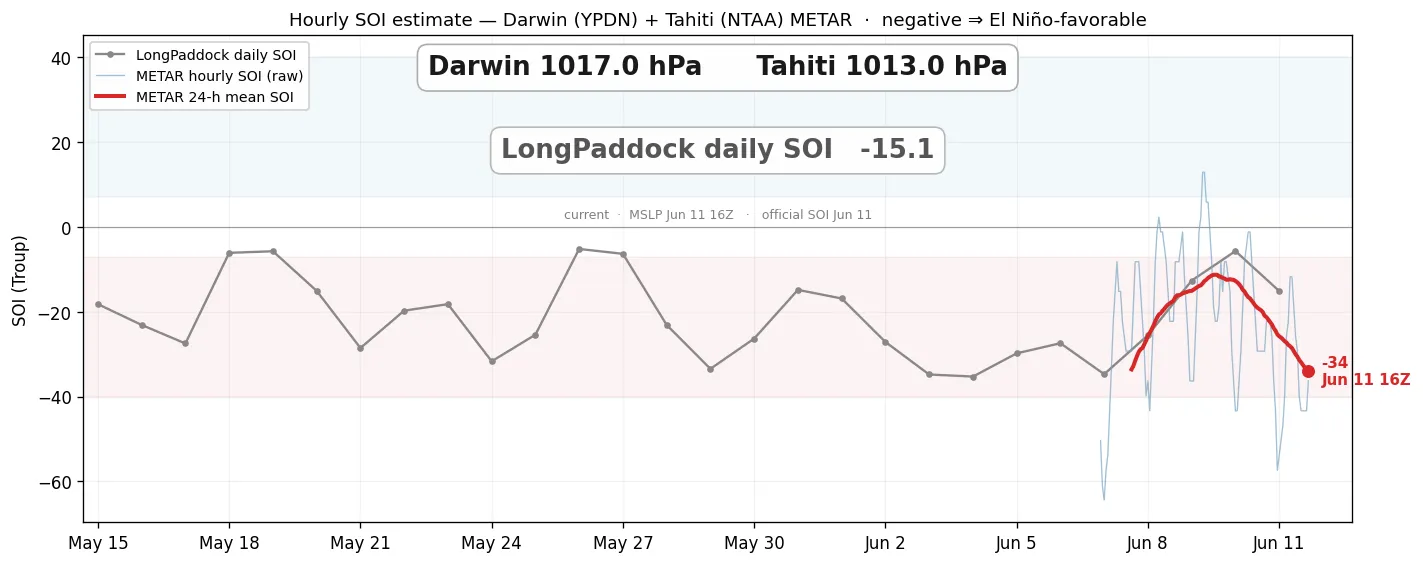
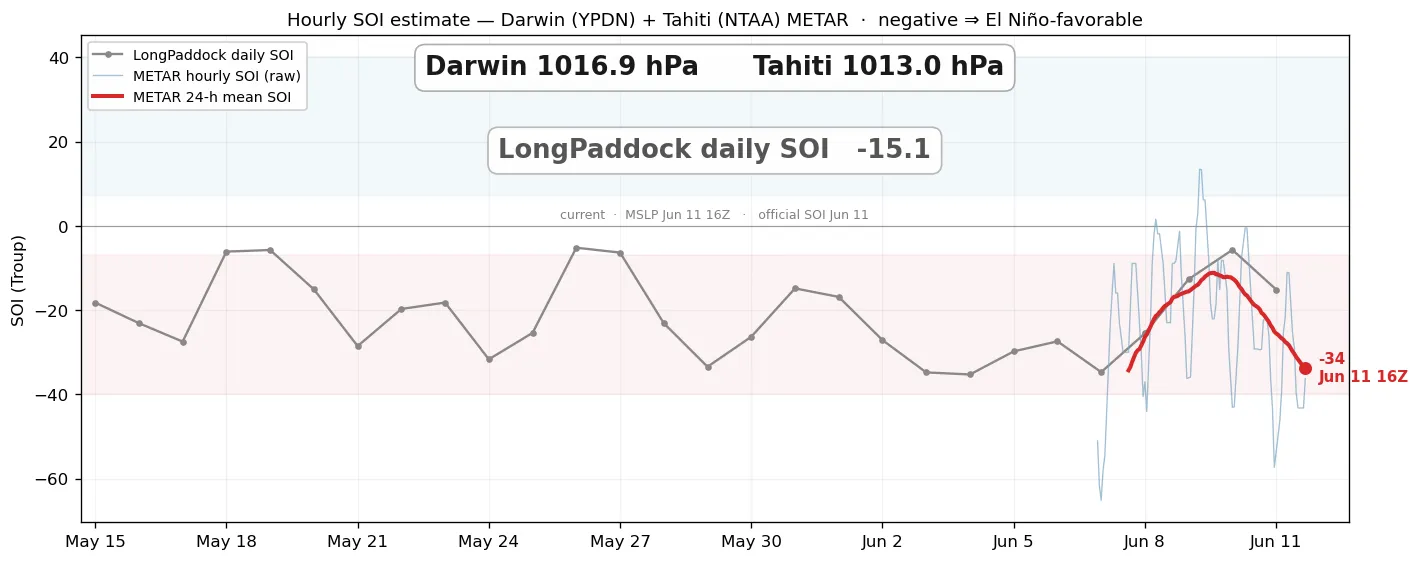
Hourly SOI: reduce QNH to true MSLP with observed temperature + station elevation
METAR reports the altimeter setting (QNH, ISA reduction), but LongPaddock's daily SOI uses true
MSLP (actual-temperature reduction). Convert QNH→MSLP per station using the observed temperature
and elevation (Darwin 30.4 m, Tahiti/Faa'a 2 m): ISA-invert QNH to station pressure, then reduce
hypsometrically with the real column temperature. The correction is small for these near-sea-level
stations (~0.2 hPa at Darwin, ~0 at Tahiti) but removes the temperature-dependent part of the
QNH-vs-MSLP mismatch, so the index is on the same physical basis as LongPaddock's.

diff --git a/scripts/sst/hourly_soi.py b/scripts/sst/hourly_soi.py
@@ -36,22 +36,44 @@ METAR_API = "https://aviationweather.gov/api/data/metar?ids=YPDN,NTAA&format=jso
 SOI_URL = ("https://data.longpaddock.qld.gov.au/SeasonalClimateOutlook/"
            "SouthernOscillationIndex/SOIDataFiles/DailySOI1887-1989Base.txt")
 STATIONS = {"YPDN": "darwin", "NTAA": "tahiti"}
+ELEV = {"darwin": 30.4, "tahiti": 2.0}                # station elevation (m AMSL): YPDN, NTAA Faa'a
 PLOT_DAYS = 28
+G, RD, LAPSE, T0 = 9.80665, 287.05, 0.0065, 288.15    # ISA constants for the pressure reduction
+
+
+def qnh_to_mslp(qnh: float, temp_c, h: float) -> float:
+    """Altimeter setting (QNH, hPa) → true mean-sea-level pressure using the station's *observed*
+    temperature and elevation. QNH reduces to sea level via the ISA standard atmosphere; MSLP uses
+    the actual temperature — which is what LongPaddock's daily MSLP uses. For these near-sea-level
+    stations the correction is small (≈0.2 hPa at Darwin, ~0 at Tahiti) but removes the
+    temperature-dependent part of the QNH-vs-MSLP mismatch. Falls back to QNH if temp is missing."""
+    if temp_c is None or h is None:
+        return qnh
+    p_sta = qnh * (1.0 - LAPSE * h / T0) ** (G / (RD * LAPSE))   # ISA: sea-level QNH → station pressure
+    t_mean = (temp_c + 273.15) + LAPSE * h / 2.0                 # mean column temp: surface + half-lapse
+    return p_sta * np.exp(G * h / (RD * t_mean))                 # hypsometric reduction → true MSLP
 
 
 # ----------------------------------------------------------------------------- METAR
 def fetch_metar(hours: int = 72) -> pd.DataFrame:
-    """Recent METARs → hourly-mean QNH (hPa) per station, indexed by UTC hour."""
+    """Recent METARs → hourly-mean MSLP (hPa) per station, indexed by UTC hour.
+    Uses the reported SLP if present (it isn't for YPDN/NTAA); otherwise reduces the QNH to true
+    MSLP with the observed temperature + station elevation (see qnh_to_mslp)."""
     import json
     url = METAR_API.format(h=hours)
     obs = json.loads(urllib.request.urlopen(url, timeout=60).read().decode())
     rows = []
     for o in obs:
-        p = o.get("slp") or o.get("altim")             # slp if present (it isn't for these), else QNH
-        if p is None:
+        stn = STATIONS.get(o.get("icaoId"))
+        if stn is None:
             continue
-        rows.append((pd.Timestamp(o["reportTime"]).tz_localize(None),
-                     STATIONS.get(o.get("icaoId")), float(p)))
+        if o.get("slp") is not None:
+            p = float(o["slp"])
+        elif o.get("altim") is not None:
+            p = qnh_to_mslp(float(o["altim"]), o.get("temp"), ELEV[stn])
+        else:
+            continue
+        rows.append((pd.Timestamp(o["reportTime"]).tz_localize(None), stn, p))
     df = pd.DataFrame(rows, columns=["time", "stn", "hpa"]).dropna()
     wide = df.pivot_table(index="time", columns="stn", values="hpa", aggfunc="mean")
     return wide.resample("1h").mean()                  # hourly means (averages the 30-min obs)
